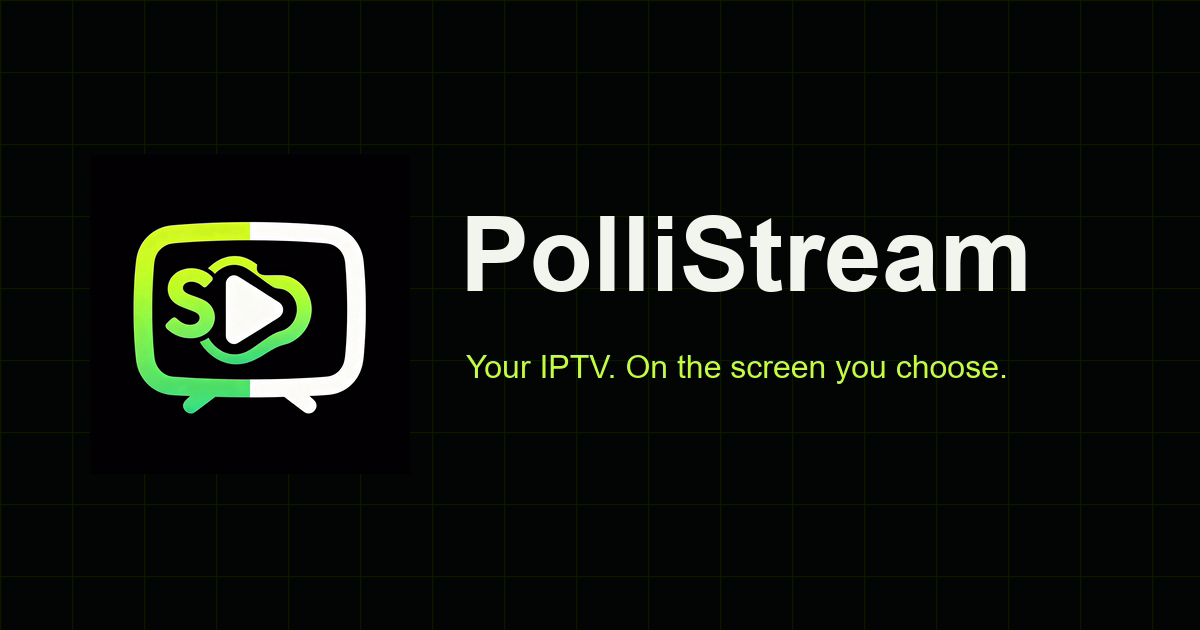
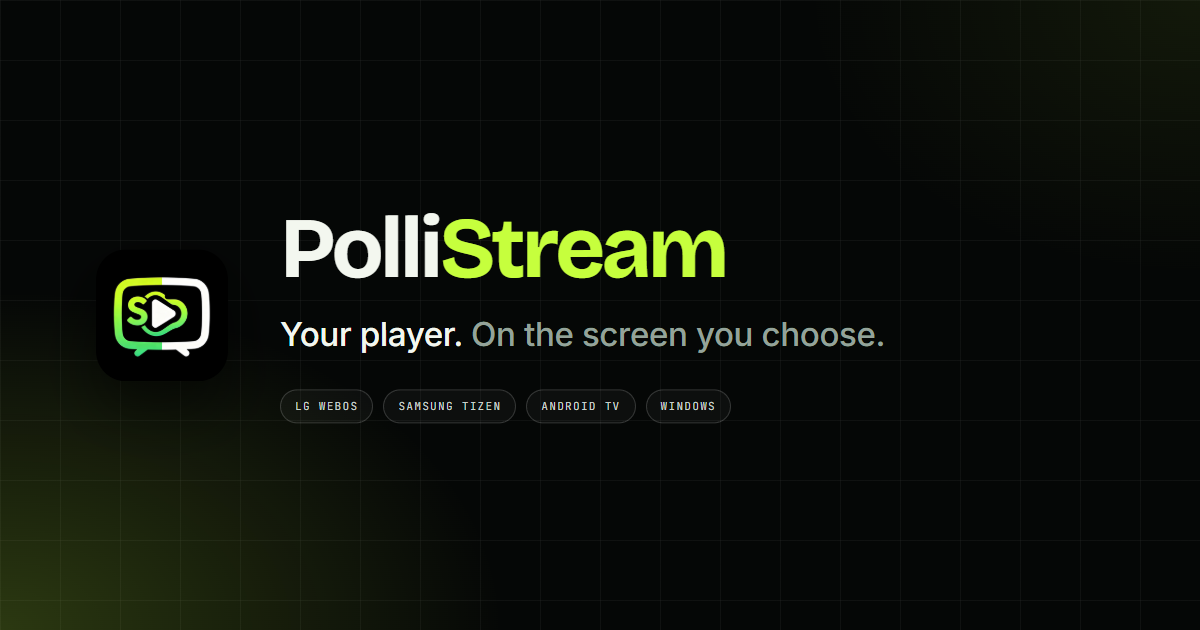
content: present PolliStream as a media player and fix audit findings

Changed region(s): [[0.0925, 0.3317, 0.8633, 0.6937], [0.0, 0.6635, 0.2467, 1.0]]

diff --git a/src/data/content/es.ts b/src/data/content/es.ts
@@ -2,9 +2,9 @@ import type { Content } from './types'
 
 export const es: Content = {
   meta: {
-    title: 'PolliStream — Tu IPTV en LG, Samsung, Android TV y Windows',
+    title: 'PolliStream — Tu reproductor en LG, Samsung, Android TV y Windows',
     description:
-      'Reproductor IPTV para Smart TV, Android y Windows. Conecta tu lista Xtream, ordena en vivo, películas y series y disfruta con audio y subtítulos. Descarga gratis.',
+      'Reproductor multimedia para Smart TV, Android y Windows. Conecta tu lista Xtream, ordena en vivo, películas y series y disfruta con audio y subtítulos. Descarga gratis.',
     ogAlt: 'PolliStream, tu lista Xtream en todas tus pantallas',
   },
   common: {
@@ -73,8 +73,8 @@ export const es: Content = {
     quality: '1080p',
   },
   hero: {
-    eyebrow: 'REPRODUCTOR IPTV · XTREAM · MULTIPLATAFORMA',
-    titleA: 'Toda tu IPTV.',
+    eyebrow: 'REPRODUCTOR MULTIMEDIA · XTREAM · MULTIPLATAFORMA',
+    titleA: 'Todo tu contenido.',
     titleB: 'En la pantalla que elijas.',
     description:
       'PolliStream conecta tu lista Xtream y ordena en vivo, películas y series en una interfaz hecha para el sofá. Sin cuenta PolliStream. Sin intermediarios.',
@@ -1085,7 +1085,7 @@ export const es: Content = {
         {
           title: 'Objeto',
           body: [
-            'PolliStream es un reproductor de IPTV. No vende, aloja, distribuye ni recomienda contenido audiovisual. La web solo distribuye el software y explica cómo instalarlo.',
+            'PolliStream es un reproductor multimedia. No vende, aloja, distribuye ni recomienda contenido audiovisual. La web solo distribuye el software y explica cómo instalarlo.',
           ],
         },
         {

diff --git a/src/data/content/pt.ts b/src/data/content/pt.ts
@@ -2,9 +2,9 @@ import type { Content } from './types'
 
 export const pt: Content = {
   meta: {
-    title: 'PolliStream — Sua IPTV na LG, Samsung, Android TV e Windows',
+    title: 'PolliStream — Seu reprodutor na LG, Samsung, Android TV e Windows',
     description:
-      'Player IPTV para Smart TV, Android e Windows. Conecte sua lista Xtream, organize ao vivo, filmes e séries e aproveite com áudio e legendas. Baixe grátis.',
+      'Reprodutor de mídia para Smart TV, Android e Windows. Conecte sua lista Xtream, organize ao vivo, filmes e séries e aproveite com áudio e legendas. Baixe grátis.',
     ogAlt: 'PolliStream, sua lista Xtream em todas as telas',
   },
   common: {
@@ -73,8 +73,8 @@ export const pt: Content = {
     quality: '1080p',
   },
   hero: {
-    eyebrow: 'PLAYER IPTV · XTREAM · MULTIPLATAFORMA',
-    titleA: 'Toda a sua IPTV.',
+    eyebrow: 'REPRODUTOR DE MÍDIA · XTREAM · MULTIPLATAFORMA',
+    titleA: 'Todo o seu conteúdo.',
     titleB: 'Na tela que você escolher.',
     description:
       'O PolliStream conecta sua lista Xtream e organiza ao vivo, filmes e séries em uma interface feita para o sofá. Sem conta PolliStream. Sem intermediários.',
@@ -1085,7 +1085,7 @@ export const pt: Content = {
         {
           title: 'Objeto',
           body: [
-            'O PolliStream é um player de IPTV. Não vende, hospeda, distribui nem recomenda conteúdo audiovisual. O site apenas distribui o software e explica como instalá-lo.',
+            'O PolliStream é um reprodutor de mídia. Não vende, hospeda, distribui nem recomenda conteúdo audiovisual. O site apenas distribui o software e explica como instalá-lo.',
           ],
         },
         {

diff --git a/src/data/content/en.ts b/src/data/content/en.ts
@@ -2,9 +2,9 @@ import type { Content } from './types'
 
 export const en: Content = {
   meta: {
-    title: 'PolliStream — Your IPTV on LG, Samsung, Android TV and Windows',
+    title: 'PolliStream — Your player on LG, Samsung, Android TV and Windows',
     description:
-      'IPTV player for Smart TV, Android and Windows. Connect your Xtream list, browse live TV, movies and series, and enjoy audio and subtitles. Download free.',
+      'Media player for Smart TV, Android and Windows. Connect your Xtream list, browse live TV, movies and series, and enjoy audio and subtitles. Download free.',
     ogAlt: 'PolliStream, your Xtream list on every screen',
   },
   common: {
@@ -73,8 +73,8 @@ export const en: Content = {
     quality: '1080p',
   },
   hero: {
-    eyebrow: 'IPTV PLAYER · XTREAM · MULTI-PLATFORM',
-    titleA: 'All your IPTV.',
+    eyebrow: 'MEDIA PLAYER · XTREAM · MULTI-PLATFORM',
+    titleA: 'All your content.',
     titleB: 'On the screen you choose.',
     description:
       'PolliStream connects your Xtream list and organizes live TV, movies and series in an interface built for the couch. No PolliStream account. No middlemen.',
@@ -1085,7 +1085,7 @@ export const en: Content = {
         {
           title: 'Purpose',
           body: [
-            'PolliStream is an IPTV player. It does not sell, host, distribute or recommend audiovisual content. The site only distributes the software and explains how to install it.',
+            'PolliStream is a media player. It does not sell, host, distribute or recommend audiovisual content. The site only distributes the software and explains how to install it.',
           ],
         },
         {

diff --git a/src/data/site.ts b/src/data/site.ts
@@ -3,7 +3,10 @@ export const site = {
   shortName: 'PolliStream',
   url: (import.meta.env.SITE_URL ?? 'https://pollistream.pages.dev').replace(/\/$/, ''),
   domain: 'pollistream.pages.dev',
-  contactEmail: import.meta.env.PUBLIC_CONTACT_EMAIL ?? '',
+  // Public support address. Override with PUBLIC_CONTACT_EMAIL once a custom
+  // domain mailbox exists; ads and store reviews expect a reachable contact.
+  contactEmail:
+    import.meta.env.PUBLIC_CONTACT_EMAIL || 'everson.20.23@gmail.com',
   r2BaseUrl: (import.meta.env.PUBLIC_R2_BASE_URL ?? '').replace(/\/$/, ''),
   cfBeaconToken:
     import.meta.env.PUBLIC_CF_BEACON_TOKEN ?? '6c34df2971364fb4b1cf90df2b1e4021',
@@ -12,9 +15,10 @@ export const site = {
   themeColor: '#050706',
   icon: '/brand/icon-256.png',
   ogImages: {
-    es: '/brand/og-es.png',
-    en: '/brand/og-en.png',
-    pt: '/brand/og-pt.png',
+    // `?v=` busts the cached preview in WhatsApp, Facebook and X after a redesign.
+    es: '/brand/og-es.png?v=2',
+    en: '/brand/og-en.png?v=2',
+    pt: '/brand/og-pt.png?v=2',
   },
 } as const
 
@@ -67,7 +71,7 @@ export type AffiliateLink = {
 }
 
 /**
- * IPTV provider affiliate links. Keep this empty until you have a real,
+ * Streaming provider affiliate links. Keep this empty until you have a real,
  * disclosed partner deal; the section is hidden when empty.
  */
 export const affiliate = {
